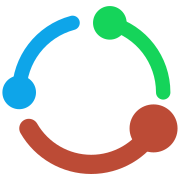
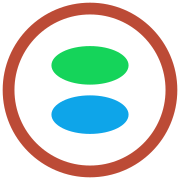
[marketing] feat(web): adopt the N1b brand mark
Trademark application 91827693 was refused on 2026-08-06 as confusingly
similar to Canonical's Circle of Friends (reg. 4784704): three elements at
120-degree rotational symmetry around one circle is the same skeleton, whatever
the colours are. The mark is now a rust ring holding two flattened ellipses
stacked vertically, lime above and sky below, which implies the two bowls of a
B without drawing one.

BrandMark carries the geometry inline and its test now pins it — viewBox, ring
radius and stroke, both ellipse positions and all three colours — so a later
drift reads as a failing test rather than a quietly different logo.

The public assets follow from the finalised full-bleed set, which is the
variant they already tracked.

diff --git a/packages/web/src/ui/BrandMark.tsx b/packages/web/src/ui/BrandMark.tsx
@@ -9,11 +9,12 @@ interface BrandMarkProps {
 }
 
 /**
- * Brand mark — the three-tadpole Breatic logo as an inlined SVG, with no
- * link or wordmark so each chrome (project top bar, studio top bar) wraps it
- * in its own home link. Three tadpoles loop clockwise: main brand (rust red
- * #BC4B36) bottom-right, companion sky (#0EA5E9) left, companion lime
- * (#15D45A) top-right.
+ * Brand mark — the Breatic logo as an inlined SVG, with no link or wordmark so
+ * each chrome (project top bar, studio top bar) wraps it in its own home link.
+ * A rust ring (#BC4B36) holds two flattened ellipses stacked vertically: lime
+ * (#15D45A) above, sky (#0EA5E9) below. The two ellipses imply the bowls of a
+ * B without drawing one — spelling the letter would put the mark in the pool
+ * of class-9 letter marks it needs to stay clear of.
  *
  * Single source of the mark, shared by both top bars so neither duplicates
  * the SVG. Lives in `ui/` (the cross-feature atom layer) because both
@@ -22,12 +23,13 @@ interface BrandMarkProps {
  *
  * The logo is the only place the brand raw colors are allowed (ADR 14
  * amended + brand-guard CI); chrome elsewhere uses neutral / primary.
- * Geometry: viewBox `-50 -50 100 100`, `g scale(1,-1)` y-flip; each element
- * sets fill/stroke explicitly (raster backend compatibility). It is scaled by
+ * Geometry: viewBox `-50 -50 100 100`, ring `r=38` with a 5.5 stroke, each
+ * ellipse `rx=18 ry=9` offset 11.5 either side of centre. Every element sets
+ * fill/stroke explicitly (raster backend compatibility). It is scaled by
  * `size` alone (the viewBox is fixed), so it stays crisp at any px.
  * @param props - Brand-mark props.
  * @param props.size - Rendered px size (square); defaults to 28.
- * @returns the inlined three-tadpole brand SVG mark.
+ * @returns the inlined brand SVG mark.
  */
 export function BrandMark({ size = 28 }: BrandMarkProps): React.JSX.Element {
   return (
@@ -39,32 +41,16 @@ export function BrandMark({ size = 28 }: BrandMarkProps): React.JSX.Element {
       focusable='false'
       data-testid='top-bar-logo'
     >
-      <g transform='scale(1, -1)'>
-        <circle cx='25.98' cy='-15' r='10' fill='#BC4B36' />
-        <path
-          d='M 25.98 -15 A 30 30 0 0 0 -25.98 -15'
-          fill='none'
-          stroke='#BC4B36'
-          strokeWidth='8'
-          strokeLinecap='round'
-        />
-        <circle cx='-30' cy='0' r='7' fill='#0EA5E9' />
-        <path
-          d='M -30 0 A 30 30 0 0 0 -7.76 28.98'
-          fill='none'
-          stroke='#0EA5E9'
-          strokeWidth='6'
-          strokeLinecap='round'
-        />
-        <circle cx='7.76' cy='28.98' r='7' fill='#15D45A' />
-        <path
-          d='M 7.76 28.98 A 30 30 0 0 0 30 0'
-          fill='none'
-          stroke='#15D45A'
-          strokeWidth='6'
-          strokeLinecap='round'
-        />
-      </g>
+      <circle
+        cx='0'
+        cy='0'
+        r='38'
+        fill='none'
+        stroke='#BC4B36'
+        strokeWidth='5.5'
+      />
+      <ellipse cx='0' cy='-11.5' rx='18' ry='9' fill='#15D45A' />
+      <ellipse cx='0' cy='11.5' rx='18' ry='9' fill='#0EA5E9' />
     </svg>
   );
 }

diff --git a/packages/web/src/ui/__tests__/BrandMark.test.tsx b/packages/web/src/ui/__tests__/BrandMark.test.tsx
@@ -16,6 +16,34 @@ describe('BrandMark', () => {
     expect(mark).toHaveAttribute('aria-hidden', 'true');
   });
 
+  it('draws the N1b geometry: a rust ring holding a lime and a sky ellipse', () => {
+    render(<BrandMark />);
+    const mark = screen.getByTestId('top-bar-logo');
+    // The mark is the registrable identity, so its geometry is pinned here:
+    // a drift in any of these numbers is a different logo, not a restyle.
+    expect(mark).toHaveAttribute('viewBox', '-50 -50 100 100');
+
+    const ring = mark.querySelector('circle');
+    expect(ring).toHaveAttribute('r', '38');
+    expect(ring).toHaveAttribute('stroke', '#BC4B36');
+    expect(ring).toHaveAttribute('stroke-width', '5.5');
+    expect(ring).toHaveAttribute('fill', 'none');
+
+    const ellipses = [...mark.querySelectorAll('ellipse')];
+    expect(ellipses).toHaveLength(2);
+    for (const el of ellipses) {
+      expect(el).toHaveAttribute('cx', '0');
+      expect(el).toHaveAttribute('rx', '18');
+      expect(el).toHaveAttribute('ry', '9');
+    }
+    // Upper bowl is lime, lower is sky; SVG y grows downward.
+    const [upper, lower] = ellipses;
+    expect(upper).toHaveAttribute('cy', '-11.5');
+    expect(upper).toHaveAttribute('fill', '#15D45A');
+    expect(lower).toHaveAttribute('cy', '11.5');
+    expect(lower).toHaveAttribute('fill', '#0EA5E9');
+  });
+
   it('defaults to 28px and honors an explicit size', () => {
     const { rerender } = render(<BrandMark />);
     const def = screen.getByTestId('top-bar-logo');
